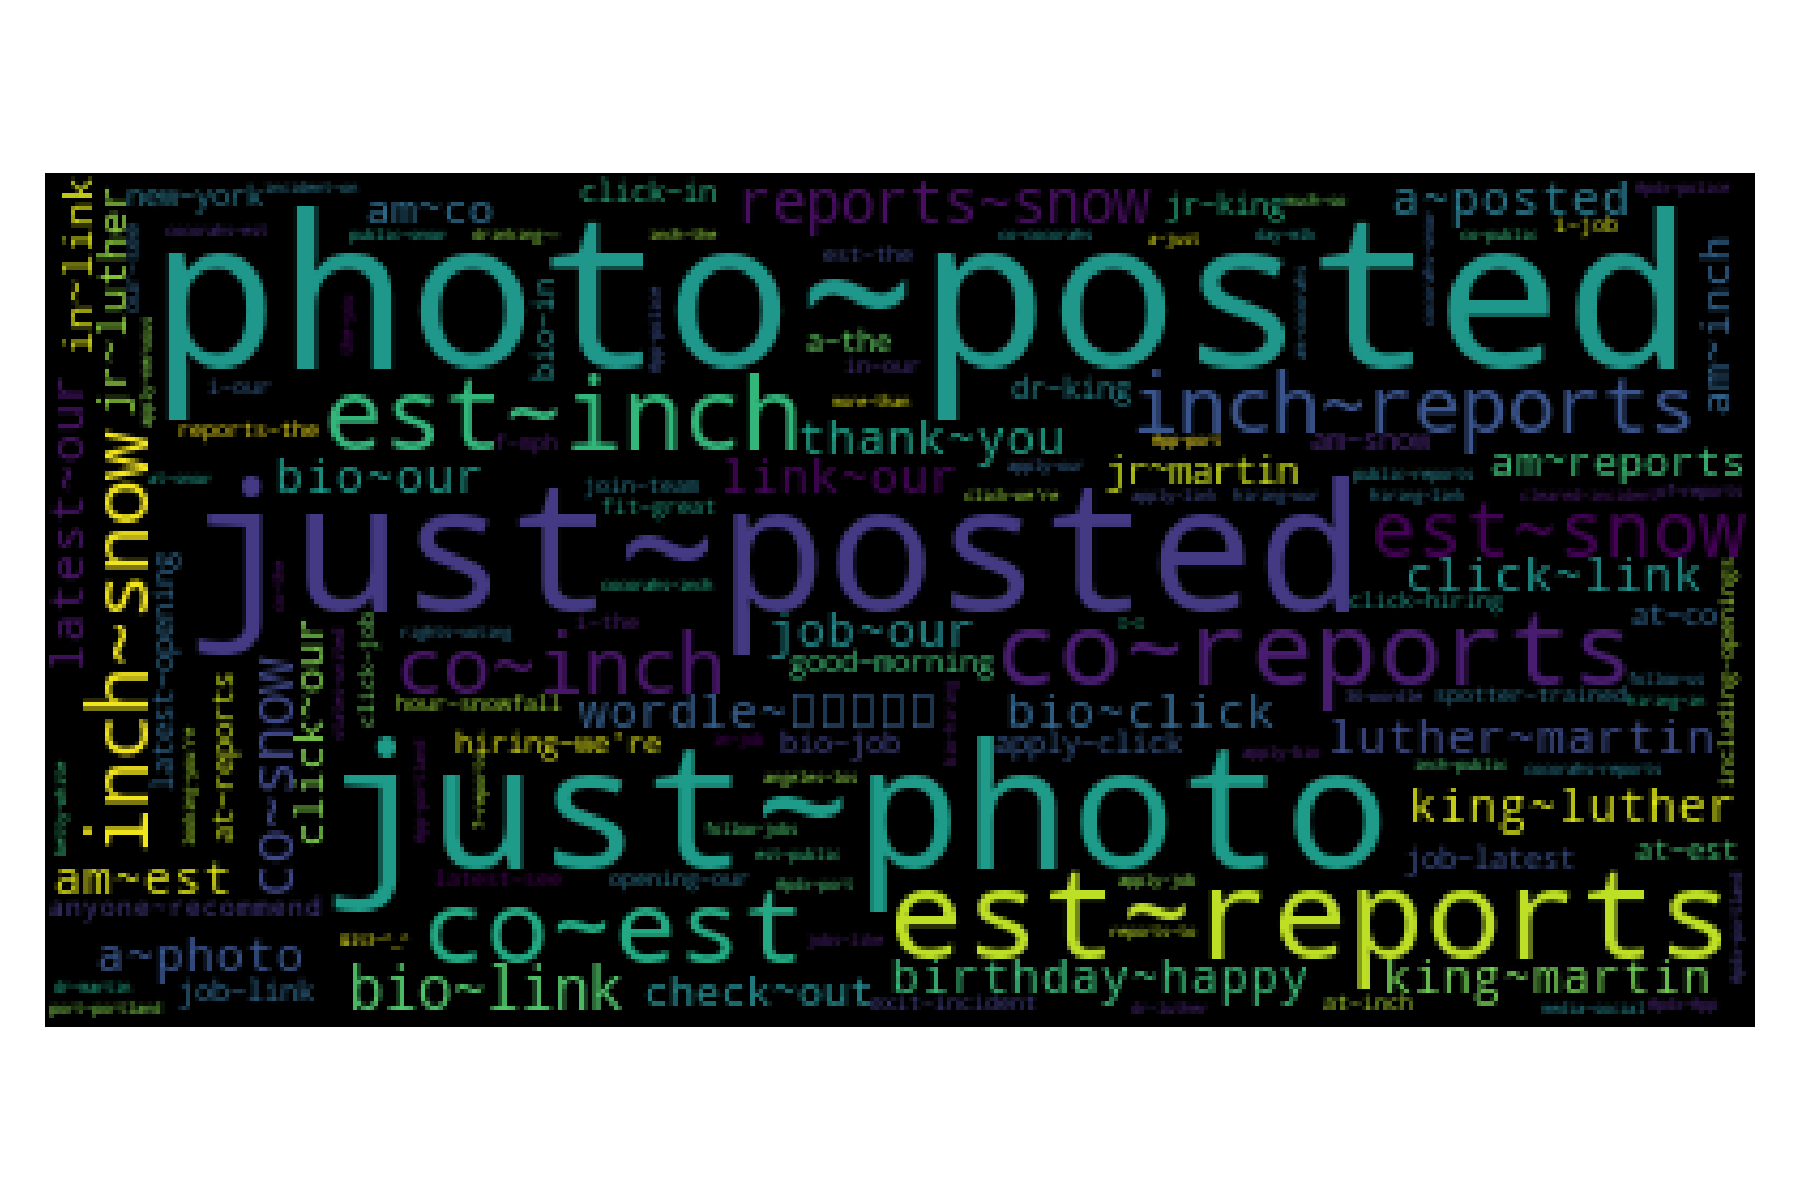
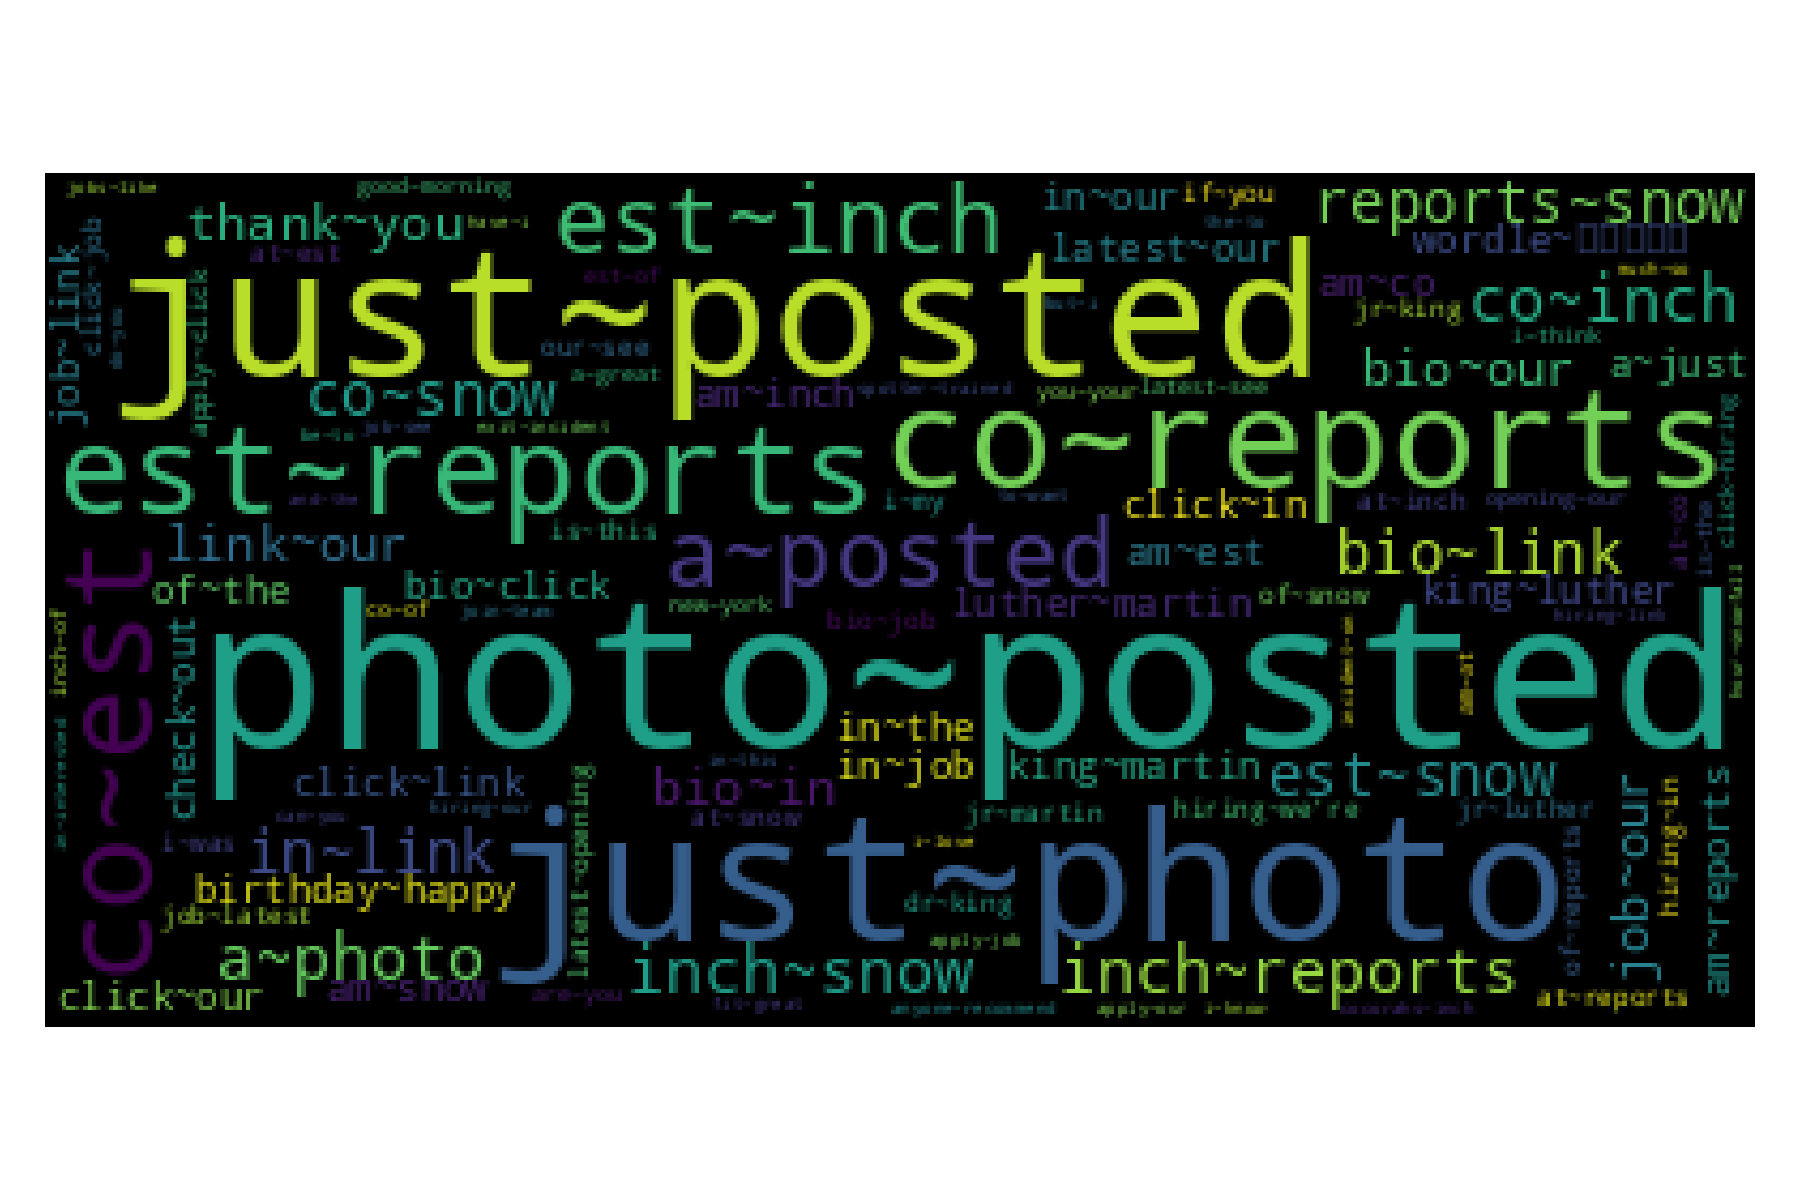
collocations

diff --git a/code/03Collocations.py b/code/03Collocations.py
@@ -224,7 +224,7 @@ bigrams = Counter({k: v for k, v in voc.voc.items() if k.count("~")})
 d = [(k, v) for k, v in r.items()]
 d.sort(key=lambda x: x[1], reverse=True)
 
-_ = {k: v for k, v in d[100:300]}
+_ = {k: v for k, v in d[200:400]}
 wc = WC().generate_from_frequencies(_)
 plt.imshow(wc)
 plt.axis('off')
